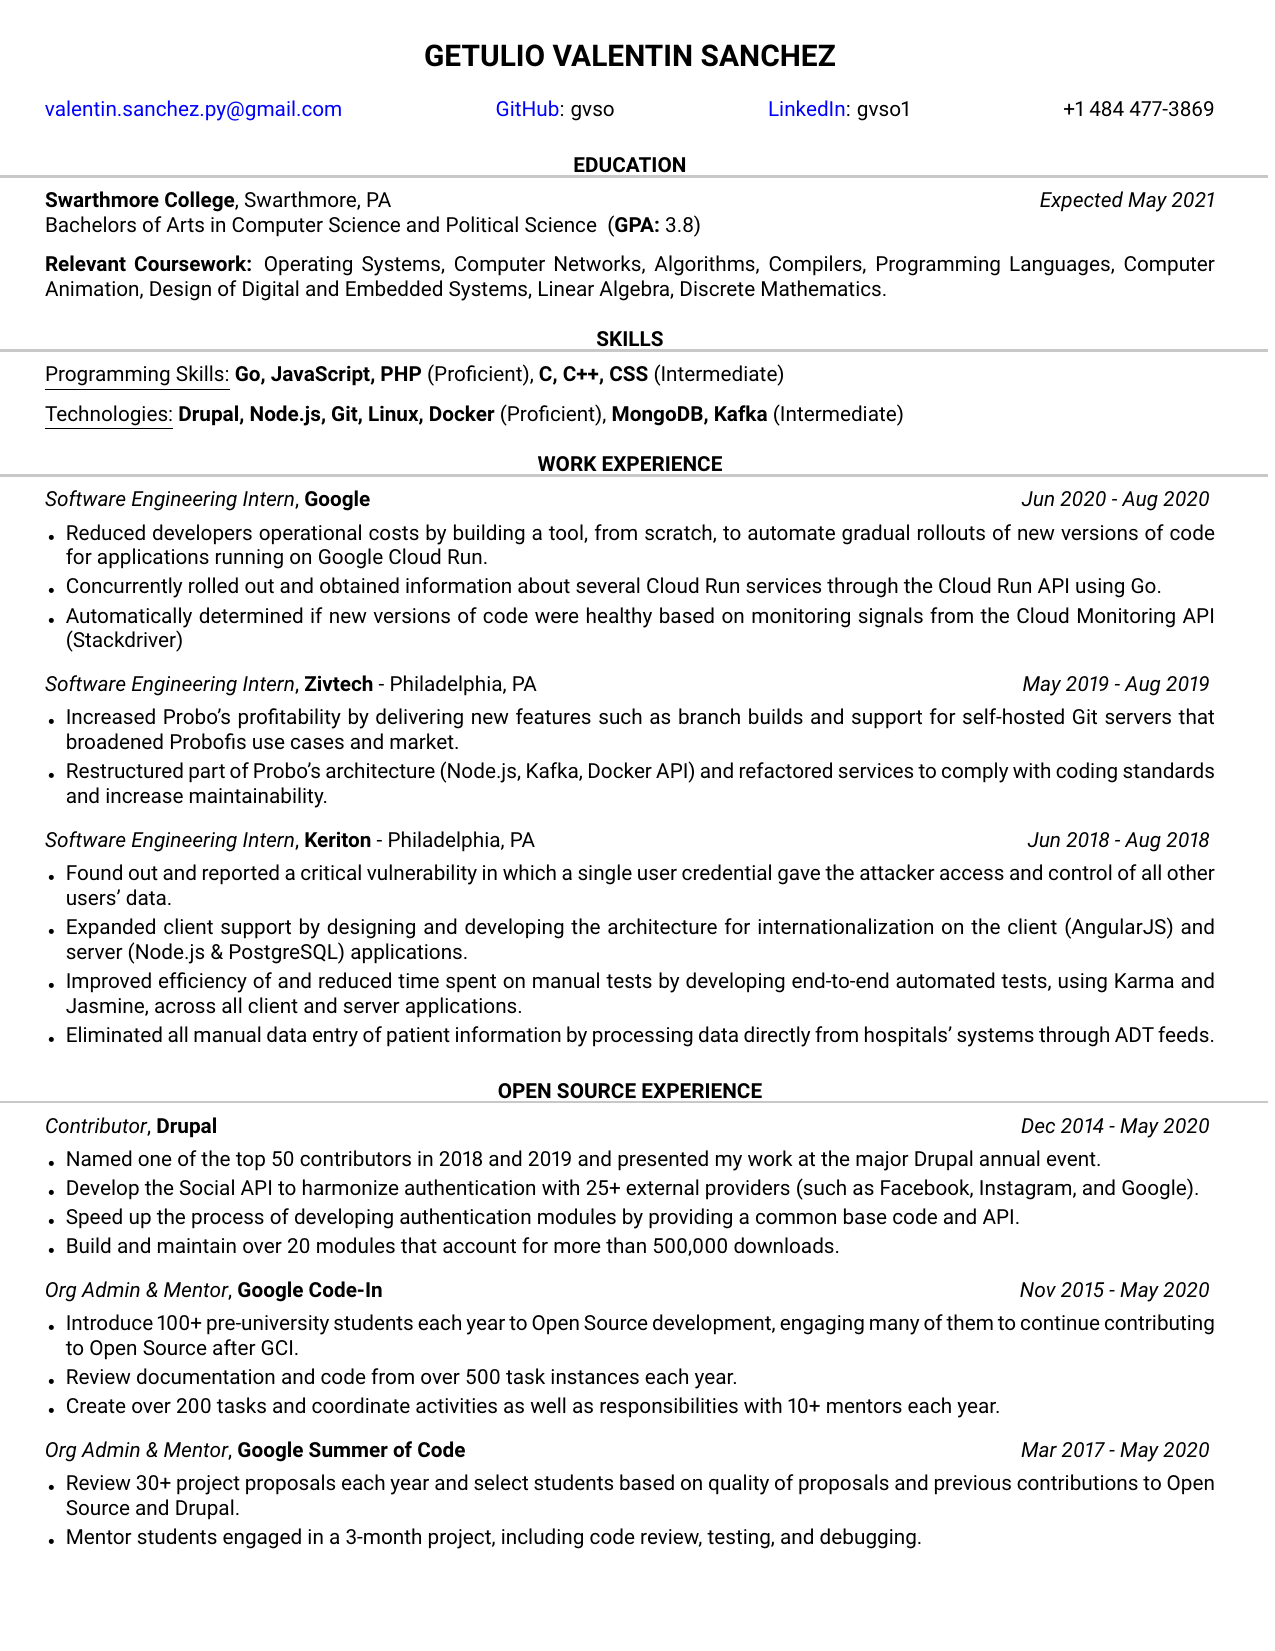
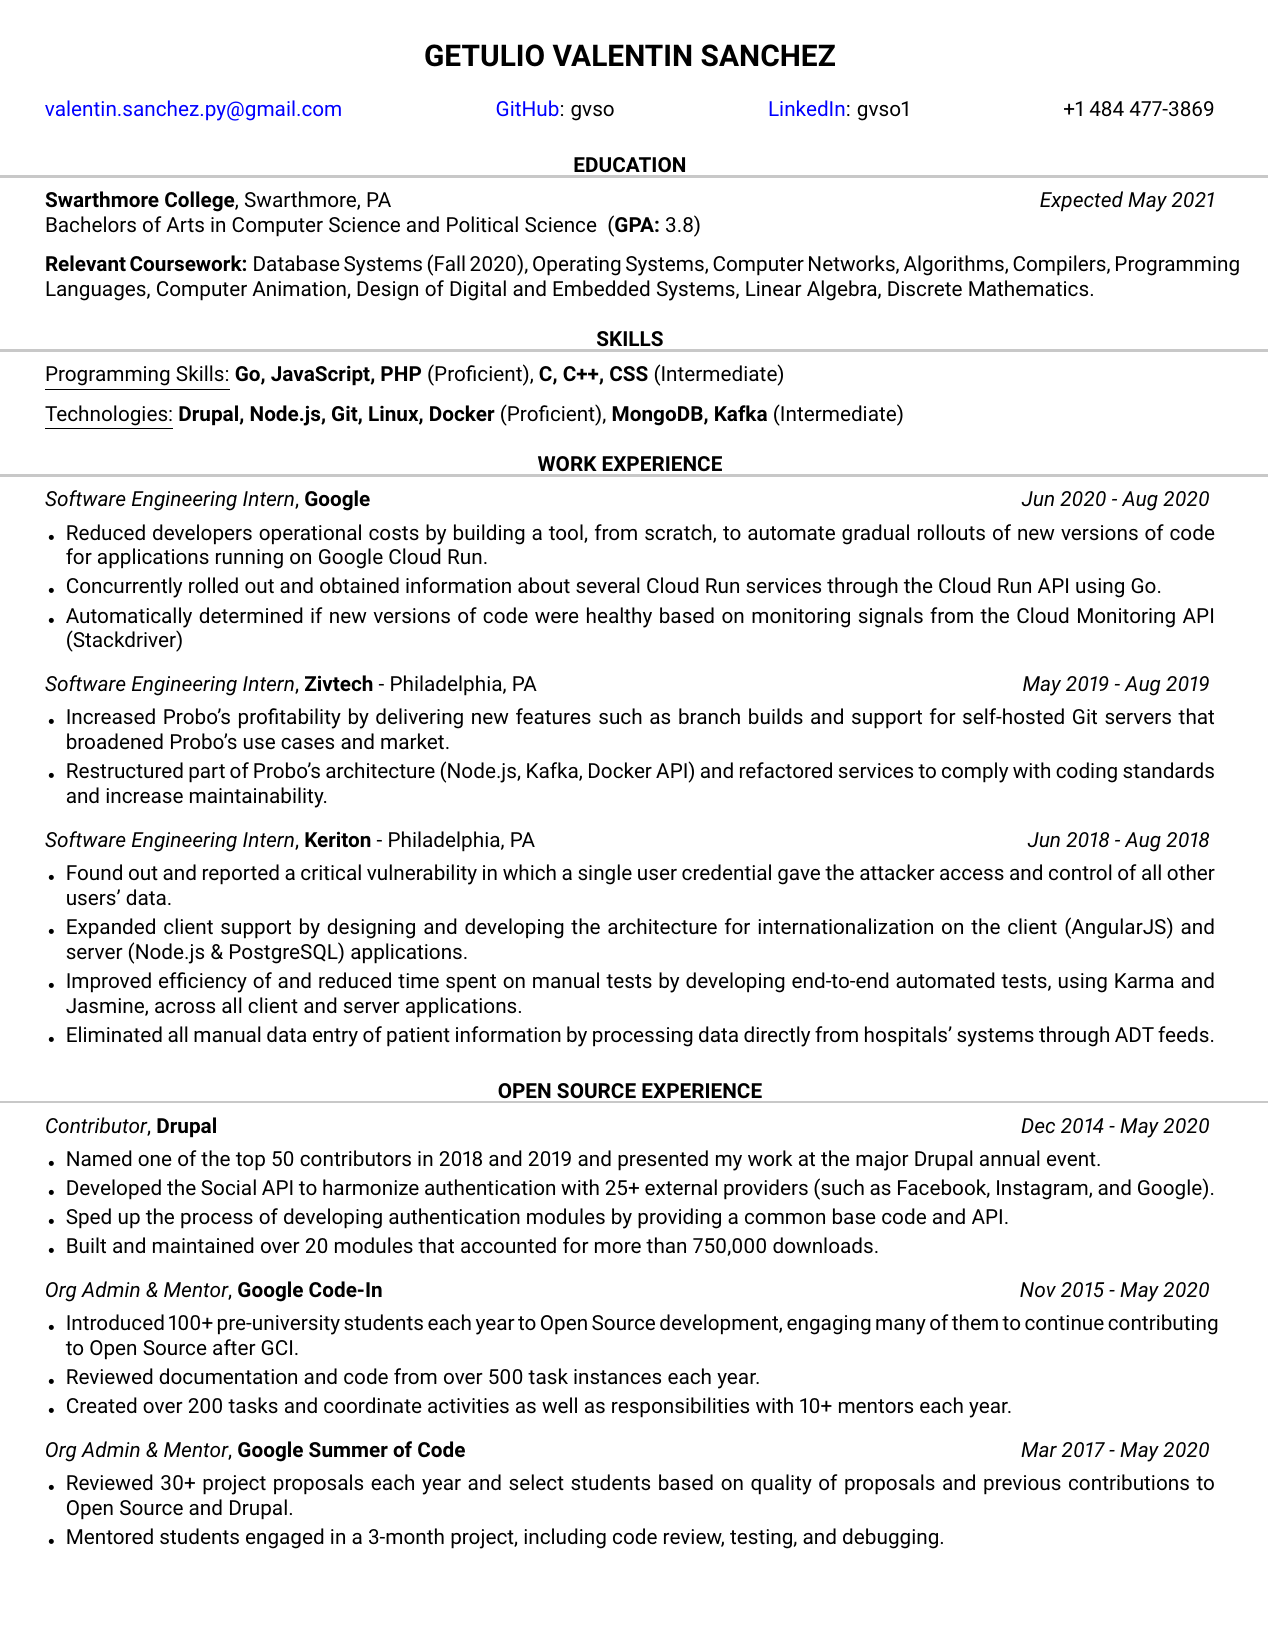
Past tense in Drupal experience

diff --git a/resume.tex b/resume.tex
@@ -53,7 +53,7 @@ Bachelors of Arts in Computer Science and Political Science $\medskip$ (\textbf{
 
 \vspace{-0.5em}
 
-\textbf{Relevant Coursework:} Operating Systems, Computer Networks, Algorithms, Compilers, Programming Languages, Computer Animation, Design of Digital and Embedded Systems, Linear Algebra, Discrete Mathematics.
+\textbf{Relevant Coursework:} Database Systems (Fall 2020), Operating Systems, Computer Networks, Algorithms, Compilers, Programming Languages, Computer Animation, Design of Digital and Embedded Systems, Linear Algebra, Discrete Mathematics.
 
 \end{rSection}
 
@@ -82,7 +82,7 @@ Bachelors of Arts in Computer Science and Political Science $\medskip$ (\textbf{
 %------------------------------------------------
 
 \begin{rSubsection}{Software Engineering Intern}{Zivtech}{Philadelphia, PA}{May 2019 - Aug 2019}
-\item Increased Probo's profitability by delivering new features such as branch builds and support for self-hosted Git servers that broadened Probo’s use cases and market.
+\item Increased Probo's profitability by delivering new features such as branch builds and support for self-hosted Git servers that broadened Probo's use cases and market.
 \item Restructured part of Probo's architecture (Node.js, Kafka, Docker API) and refactored services to comply with coding standards and increase maintainability.
 \end{rSubsection}
 
@@ -105,24 +105,24 @@ Bachelors of Arts in Computer Science and Political Science $\medskip$ (\textbf{
 
 \begin{rSubsection}{Contributor}{Drupal}{}{Dec 2014 - May 2020}
 \item Named one of the top 50 contributors in 2018 and 2019 and presented my work at the major Drupal annual event.
-\item Develop the Social API to harmonize authentication with 25+ external providers (such as Facebook, Instagram, and Google).
-\item Speed up the process of developing authentication modules by providing a common base code and API.
-\item Build and maintain over 20 modules that account for more than 500,000 downloads.
+\item Developed the Social API to harmonize authentication with 25+ external providers (such as Facebook, Instagram, and Google).
+\item Sped up the process of developing authentication modules by providing a common base code and API.
+\item Built and maintained over 20 modules that accounted for more than 750,000 downloads.
 \end{rSubsection}
 
 %------------------------------------------------
 
 \begin{rSubsection}{Org Admin \& Mentor}{Google Code-In}{}{Nov 2015 - May 2020}
-\item Introduce 100+ pre-university students each year to Open Source development, engaging many of them to continue contributing to Open Source after GCI.
-\item Review documentation and code from over 500 task instances each year.
-\item Create over 200 tasks and coordinate activities as well as responsibilities with 10+ mentors each year.
+\item Introduced 100+ pre-university students each year to Open Source development, engaging many of them to continue contributing to Open Source after GCI.
+\item Reviewed documentation and code from over 500 task instances each year.
+\item Created over 200 tasks and coordinate activities as well as responsibilities with 10+ mentors each year.
 \end{rSubsection}
 
 %------------------------------------------------
 
 \begin{rSubsection}{Org Admin \& Mentor}{Google Summer of Code}{}{Mar 2017 - May 2020}
-\item Review 30+ project proposals each year and select students based on quality of proposals and previous contributions to Open Source and Drupal.
-\item Mentor students engaged in a 3-month project, including code review, testing, and debugging.
+\item Reviewed 30+ project proposals each year and select students based on quality of proposals and previous contributions to Open Source and Drupal.
+\item Mentored students engaged in a 3-month project, including code review, testing, and debugging.
 \end{rSubsection}
 
 \end{rSection}
